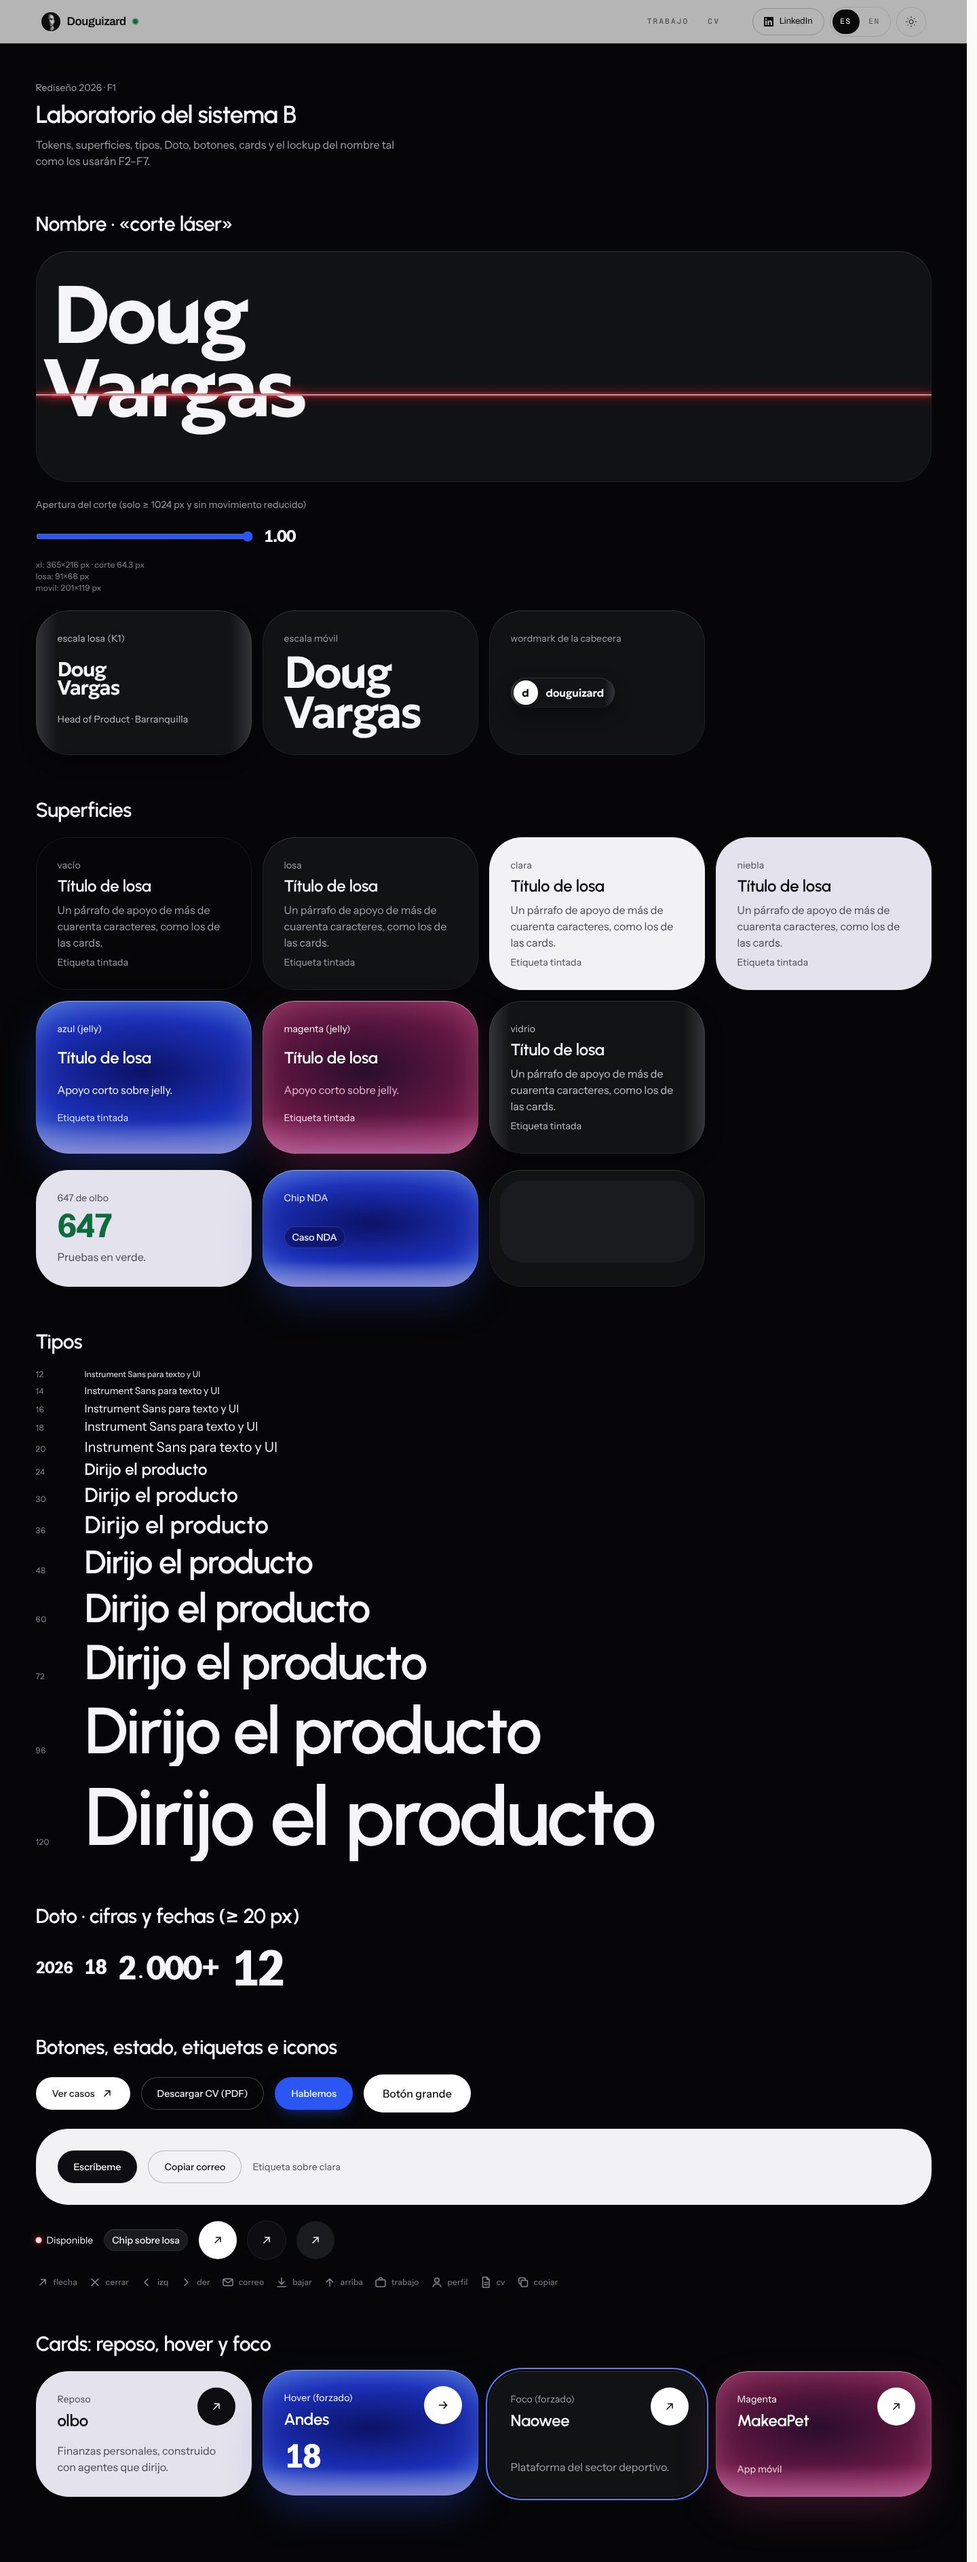
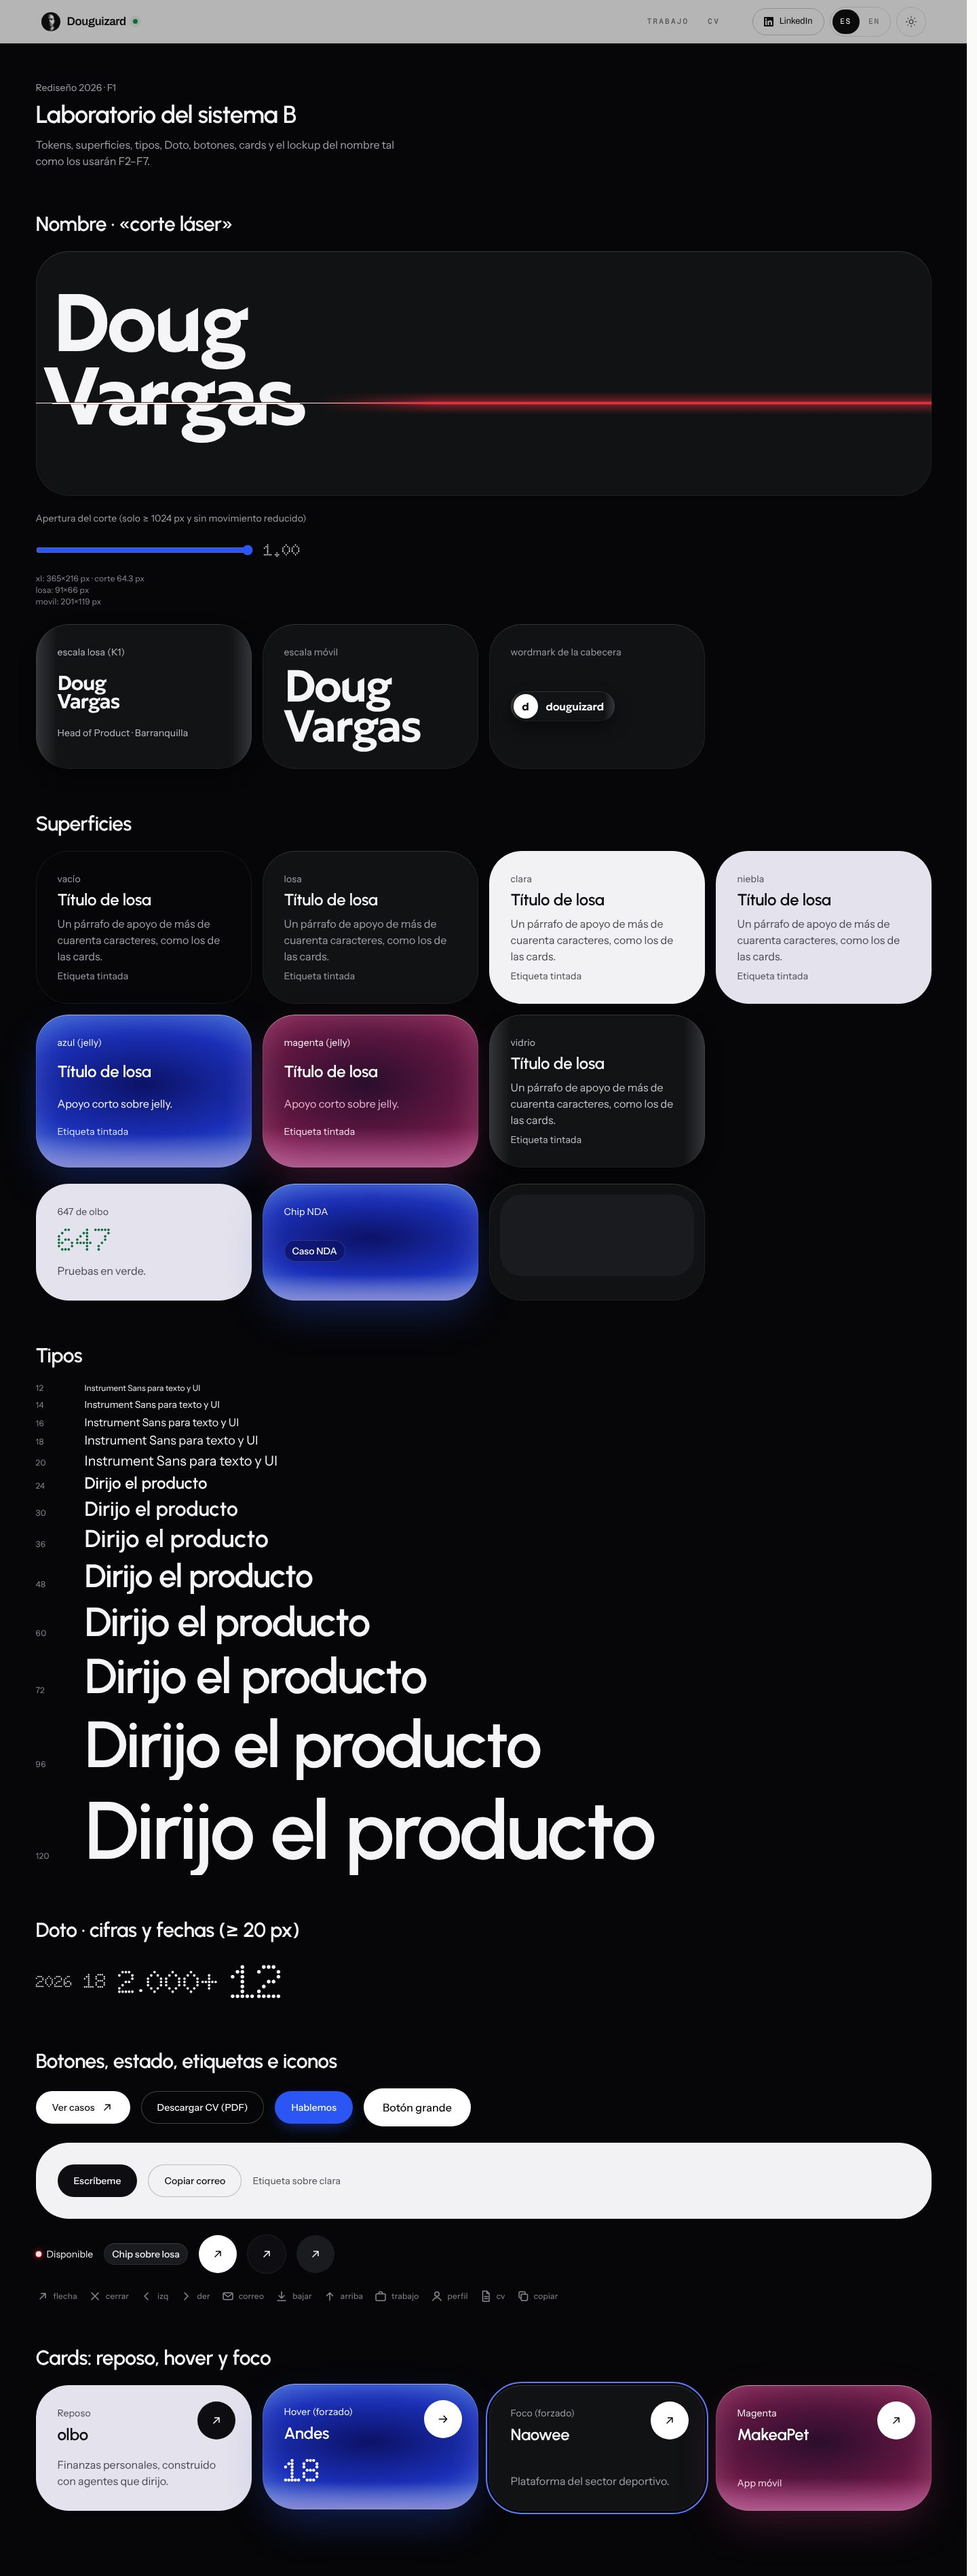
docs(f1): arreglos tras la crítica en F1-INFORME y capturas del lab con Doto
Capturas lab-{390,1024,1440}[-pliegue].jpg rehechas en segunda visita.

Claude-Session: https://claude.ai/code/session_0115FVoA5dDyoQJSFccx6xzy

diff --git a/docs/rediseno-2026/F1-INFORME.md b/docs/rediseno-2026/F1-INFORME.md
@@ -137,3 +137,22 @@ Resultado: **sin cambio visual en las rutas públicas.** Las capturas quedan en 
 - Doto es `display: optional`: en la primera visita en frío las cifras pueden salir con la de respaldo (es lo que
   pide 07 §1.7; las capturas se tomaron tras una recarga).
 - `docs/rediseno-2026/baseline-F0.json` no se tocó; las mediciones de F1 están en este informe.
+
+## Arreglos tras la crítica (`06-CRITICA-F1.md`)
+
+Un commit por punto, en orden. Todas las pruebas nuevas viven en `tests/e2e/lockup.spec.ts`, en el bloque `DG_LAB=1`
+(el build normal sigue con su única prueba de 404, así que el total de Playwright no cambia).
+
+| Punto | Cambio | Prueba |
+|---|---|---|
+| **P0-1** Doto no pintaba | `--font-display-b`, `--font-texto` y `--font-dot` salen de `@theme inline` y pasan al `:root` de tokens B (`globals.css`). Ninguna clase Tailwind usaba `font-dot`/`font-texto`/`font-display-b`, así que no hace falta `@theme static`. | «toda var() de sistema, marca y lab resuelve en :root»: lee las tres hojas, saca cada `var(--x)` (menos las locales `--corte`, `--lockup-*`, `--font-nombre`, `--fin-nombre`) y exige un valor no vacío en `<html>`. «Doto pinta las cifras» a 390 y 1440 en segunda visita: los ≥ 7 `[data-dot]` tienen familia que empieza por `Doto` y `fonts.check('700 48px Doto')` da `true`. |
+| **P1-1** nombre invisible sin isla | Dentro del mismo `@media (scripting: enabled)…`, `.lockup[data-espera-laser]:not([data-colocado])` lleva `animation: lockup-mostrar 0s 1200ms forwards` (`to { visibility: visible }`). Al colocarse, la regla deja de aplicar: «ninguna animación viva tras 1,5 s» sigue verde. | «si los chunks JS no llegan, el nombre XL se ve entero a los 1,5 s»: `route(/_next/static/chunks/*.js, abort)`, 1440×900; XL y sus dos líneas `visible`, `data-corte="cerrado"`, sin isla ni `clip-path`. Falla sobre el build anterior (`hidden`). |
+| **P1-2** el corte no se leía | `.hilo` queda en 1 px de `--laser-nucleo` **sin** `box-shadow`. En el lab, el filo de 1 px de la escena pasa detrás del nombre (va antes en el DOM) y el halo rojo pasa a un `::before` con `mask-image` que se apaga hasta `--fin-nombre` + 24 px (borde derecho del lockup; lo escribe `LabCorte` con el `ResizeObserver` que ya tenía). Comparado con `tipo_4_1440.jpg` a 1440×900 y 1280×720 (DPR 2): se leen dos mitades desplazadas y una rendija oscura con un filo claro; el rojo vive a la derecha, lejos de las letras. | «filo legible»: `.hilo` con `box-shadow: none` y, en una franja de 24 px centrada en el corte a lo ancho de «Vargas», ≤ 1 % de píxeles rojos saturados. |
+| **P1-3** el corte no seguía al láser | `NameLockupCorte` observa con el mismo `ResizeObserver` el lockup, el láser y `lockup.offsetParent`, y escucha `resize`; todo pasa por un solo `requestAnimationFrame`. La escena del lab pasa a `min-height: max(340px, 40svh)`. **P2-4** (trivial, en la misma rama del código): al salir de `CONSULTA_CORTE` también se quita `lockup.style.top`. | «resize vertical 1440×900 → 1440×1100»: el `font-size` no cambia, el láser se mueve > 10 px y \|y láser − y corte\| ≤ 1 px antes y después. |
+
+Los demás P2 no se tocaron (van con F2/F3, según la crítica). Tampoco se tocó §3 «Lo que está bien»: los dos pases de
+colocación, el cierre exacto, la ruta sin JS, móvil y movimiento reducido, y la accesibilidad siguen igual y en verde.
+
+**Capturas** `F1-capturas/lab-{390,1024,1440}[-pliegue].jpg` rehechas igual que antes (DPR 1, JPG 82), en **segunda
+visita**: en las tres medidas, `[data-dot]` da `Doto, "Doto Fallback", …` y `fonts.check` da `true`. El «647» y la
+sección Doto ya salen en matriz de puntos.
